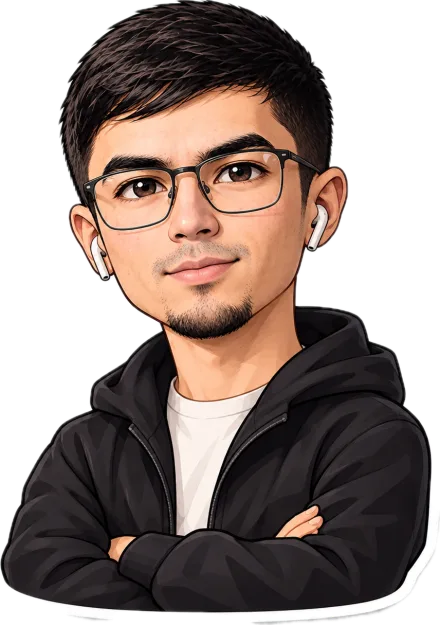
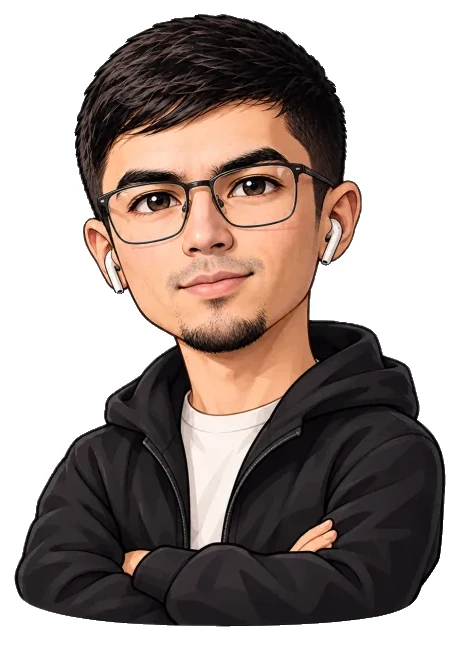
Even white outline around the portrait sticker (#5)
Claude-Session: https://claude.ai/code/session_01CajeVo84j1rTu21h1dCDBz

Changed region(s): [[0.0, 0.0, 1.0, 1.0]]

diff --git a/src/index.css b/src/index.css
@@ -139,7 +139,7 @@ main { position: relative; }
 .sticker-cut b { font: 400 36px/0.9 var(--display); letter-spacing: 0.01em; padding-top: 3px; color: var(--ink); }
 .sticker.is-dragging.sticker-cut { filter: drop-shadow(3px 0 0 #fff) drop-shadow(-3px 0 0 #fff) drop-shadow(0 3px 0 #fff) drop-shadow(0 -3px 0 #fff) drop-shadow(10px 16px 14px rgba(0, 0, 0, 0.25)); }
 .sticker-emblem { width: 92px; pointer-events: none; }
-.sticker-portrait { width: 210px; pointer-events: none; }
+.sticker-portrait { width: 223px; pointer-events: none; }
 /* the portrait has its own white border, so it only gets the shadow (a second outline left a seam) */
 .sticker.sticker-me { filter: drop-shadow(4px 6px 6px rgba(0, 0, 0, 0.22)); }
 .sticker.is-dragging.sticker-me { filter: drop-shadow(10px 16px 14px rgba(0, 0, 0, 0.25)); }
@@ -300,7 +300,7 @@ main { position: relative; }
   .hero-name { font-size: 15vw; }
   .sticker { left: var(--mx); top: var(--my); }
   .sticker-emblem { width: 56px; }
-  .sticker-portrait { width: 112px; }
+  .sticker-portrait { width: 119px; }
   .sticker-cut b { font-size: 24px; }
   .sticker-github .icon { width: 54px; height: 54px; }
   .sticker-claude svg { width: 64px; height: 64px; }
